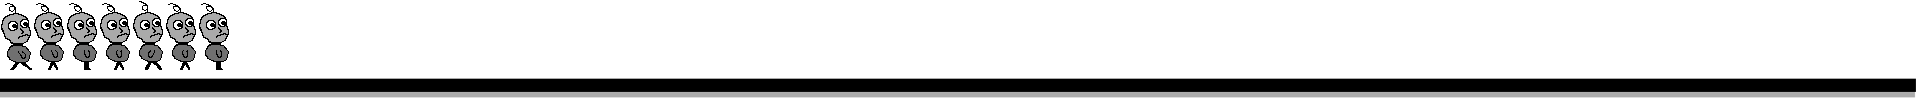
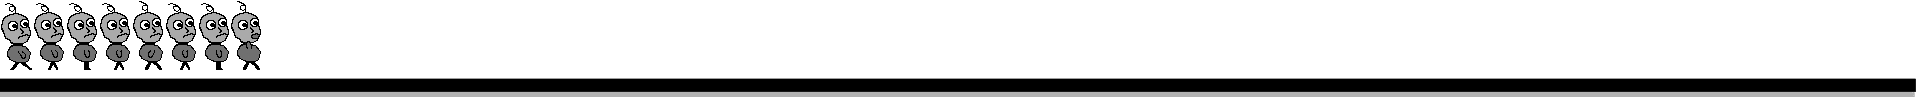
Player Jumping Animation adjusted

Changed region(s): [[0.0, 0.9412, 1.0, 0.9706], [0.0938, 0.1176, 0.1562, 0.6765]]

diff --git a/ANXY/EntityComponent/Components/PlayerSpriteRenderer.cs b/ANXY/EntityComponent/Components/PlayerSpriteRenderer.cs
@@ -102,6 +102,11 @@ public class PlayerSpriteRenderer : Component
     /// </summary>
     private void UpdateAnimation(GameTime gameTime)
     {
+        if (_player._midAir)
+        {
+            CurrentPlayerRectangle.X = XOffsetRectangle * 7;
+            return;
+        }
         var currentAnimationTime = gameTime.TotalGameTime.TotalMilliseconds % (_millisecondsPerFrame * _numberOfFrames);
         var currentFrame = (int)(currentAnimationTime / _millisecondsPerFrame);
         if (_player.Velocity.X == 0)

diff --git a/ANXY/EntityComponent/Components/Player.cs b/ANXY/EntityComponent/Components/Player.cs
@@ -20,7 +20,7 @@ public class Player : Component
     //TODO remove GroundLevel or reduce it to Window Bottom Edge when Level is fully implemented in Tiled.
     private const float Gravity = 350;
     private const float JumpVelocity = 300;
-    private bool _midAir = true;
+    public bool _midAir { get; private set; } = true;
 
     private const float MaxWalkSpeed = 300;
     private const float WalkAcceleration = 150;
